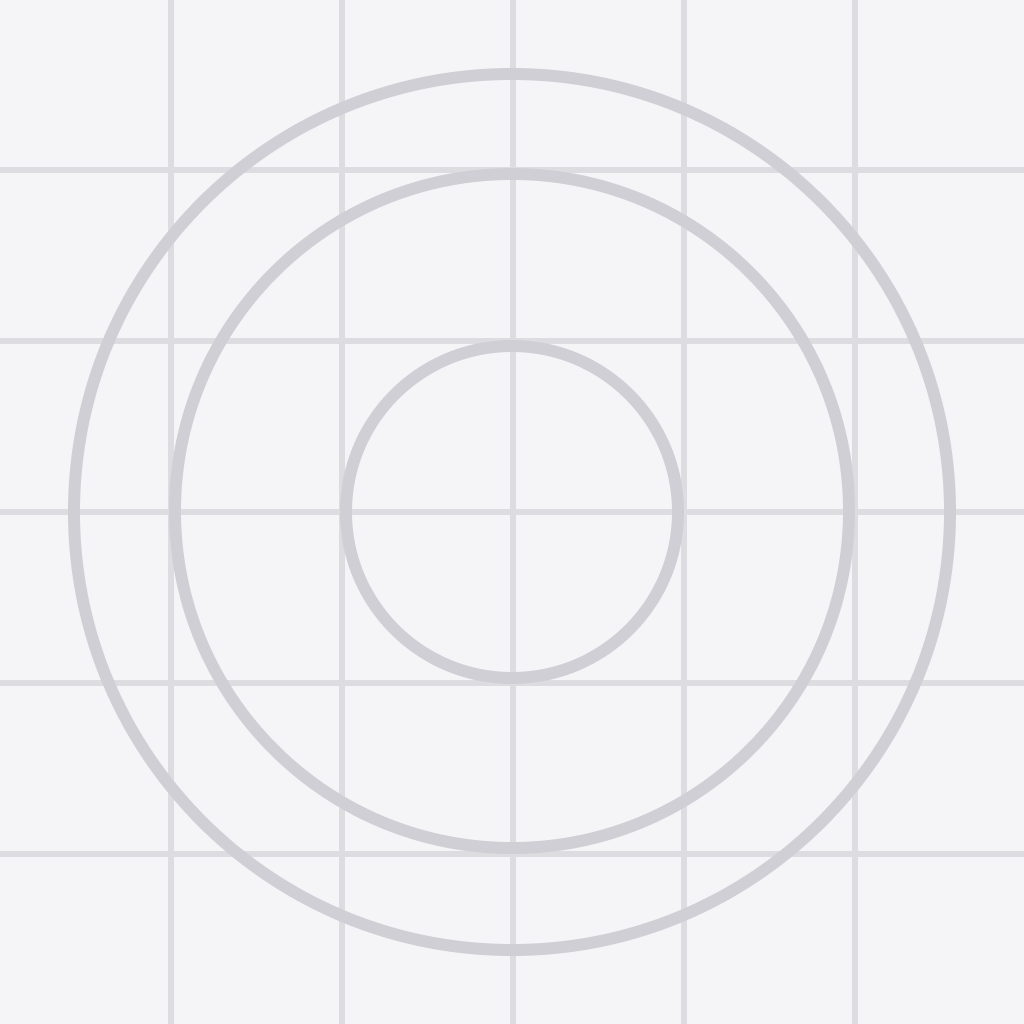
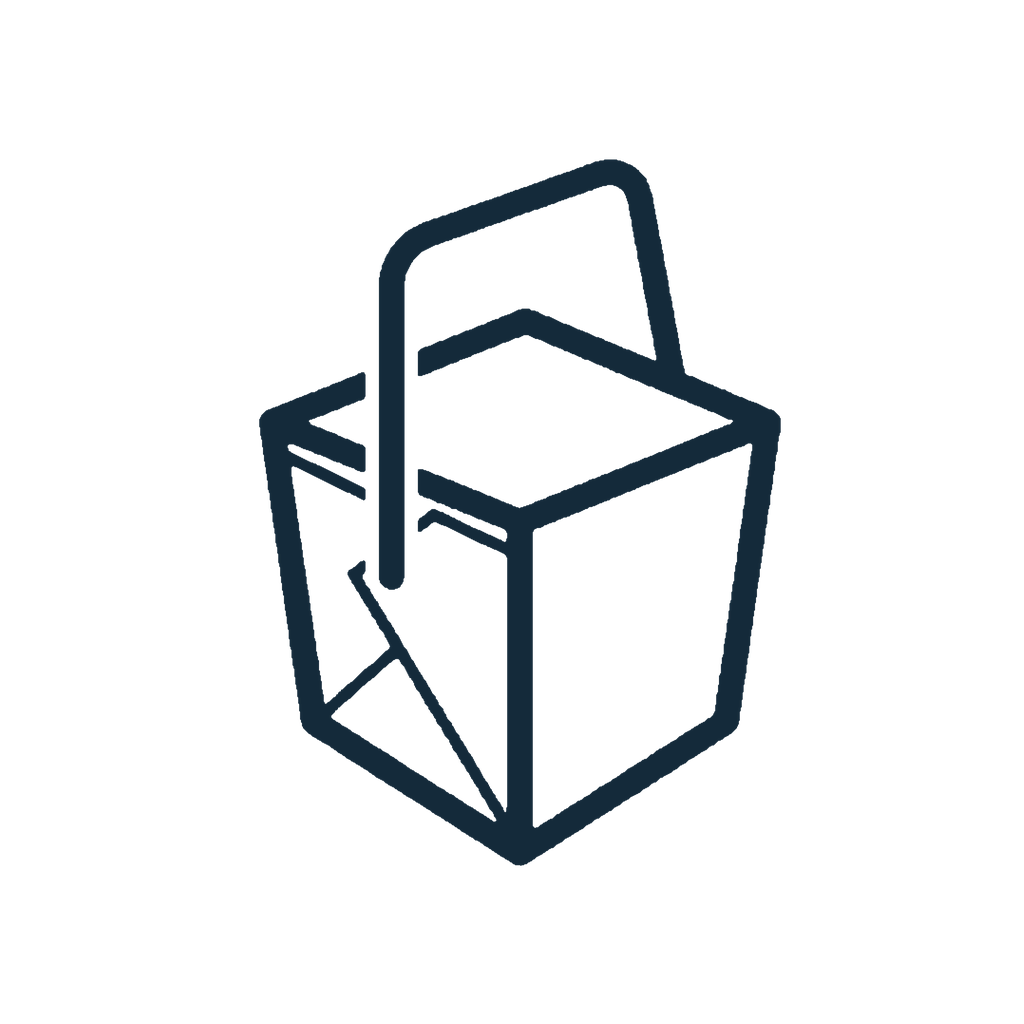
Fix production tab visibility

Changed region(s): [[0.0, 0.0, 1.0, 1.0], [0.7188, 0.25, 0.75, 0.2812], [0.25, 0.25, 0.2812, 0.2812]]

diff --git a/app/(tabs)/_layout.tsx b/app/(tabs)/_layout.tsx
@@ -1,8 +1,19 @@
 import { Tabs } from 'expo-router';
 import { Ionicons } from '@expo/vector-icons';
+import Constants from 'expo-constants';
+
+const resolveAppEnv = () => {
+  const extras =
+    (Constants.expoConfig?.extra as Record<string, any> | undefined) ??
+    ((Constants as any).manifest?.extra as Record<string, any> | undefined) ??
+    ((Constants as any).manifest2?.extra as Record<string, any> | undefined) ??
+    {};
+
+  return extras.appEnv ?? process.env.EXPO_PUBLIC_APP_ENV ?? 'production';
+};
 
 export default function TabLayout() {
-  const appEnv = process.env.EXPO_PUBLIC_APP_ENV ?? 'development';
+  const appEnv = resolveAppEnv();
   const showDevTabs = __DEV__ || appEnv === 'development';
 
   return (
@@ -48,17 +59,16 @@ export default function TabLayout() {
           ),
         }}
       />
-      {showDevTabs && (
-        <Tabs.Screen
-          name="test-errors"
-          options={{
-            title: 'Test Errors',
-            tabBarIcon: ({ color, focused }) => (
-              <Ionicons name={focused ? 'bug' : 'bug-outline'} size={24} color={color} />
-            ),
-          }}
-        />
-      )}
+      <Tabs.Screen
+        name="test-errors"
+        options={{
+          title: 'Test Errors',
+          href: showDevTabs ? undefined : null,
+          tabBarIcon: ({ color, focused }) => (
+            <Ionicons name={focused ? 'bug' : 'bug-outline'} size={24} color={color} />
+          ),
+        }}
+      />
       <Tabs.Screen
         name="wrapped-journey"
         options={{

diff --git a/app/(tabs)/profile.tsx b/app/(tabs)/profile.tsx
@@ -1,18 +1,29 @@
 import { View, Text, StyleSheet, ScrollView, TouchableOpacity, Alert } from 'react-native';
 import { SafeAreaView } from 'react-native-safe-area-context';
 import { Ionicons } from '@expo/vector-icons';
+import Constants from 'expo-constants';
 import { useUser } from '../../contexts/UserContext';
 import { useOnboarding } from '../../contexts/OnboardingContext';
 import { router } from 'expo-router';
 import { useState } from 'react';
 import OnboardingScreen from '../../components/OnboardingScreen';
 
+const resolveAppEnv = () => {
+  const extras =
+    (Constants.expoConfig?.extra as Record<string, any> | undefined) ??
+    ((Constants as any).manifest?.extra as Record<string, any> | undefined) ??
+    ((Constants as any).manifest2?.extra as Record<string, any> | undefined) ??
+    {};
+
+  return extras.appEnv ?? process.env.EXPO_PUBLIC_APP_ENV ?? 'production';
+};
+
 export default function ProfileScreen() {
   const { state, logout } = useUser();
   const { resetOnboarding } = useOnboarding();
   const [showOnboarding, setShowOnboarding] = useState(false);
-  const appEnv = process.env.EXPO_PUBLIC_APP_ENV ?? 'development';
-  const showReset = __DEV__ || appEnv !== 'production';
+  const appEnv = resolveAppEnv();
+  const showReset = __DEV__ || appEnv === 'development';
   
   // Use analytics from context instead of loading separately
   const analytics = state.analytics;

diff --git a/app.config.js b/app.config.js
@@ -47,7 +47,7 @@ export default {
       router: {
         origin: "snacktrack://"
       },
-      appEnv: process.env.EXPO_PUBLIC_APP_ENV || 'development'
+      appEnv: process.env.EXPO_PUBLIC_APP_ENV || 'production'
     }
   }
 };